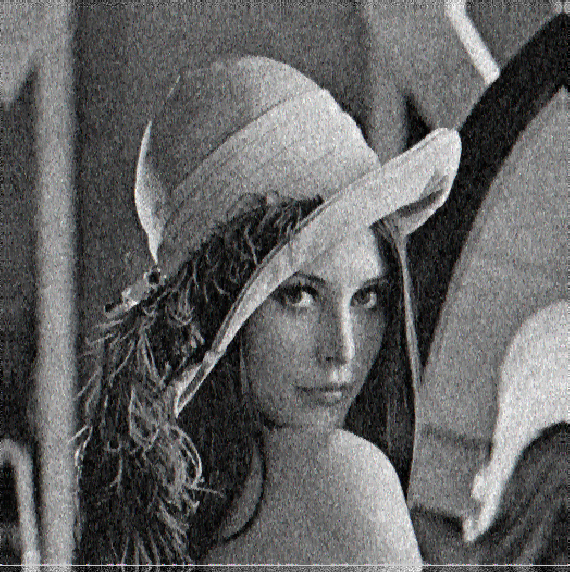
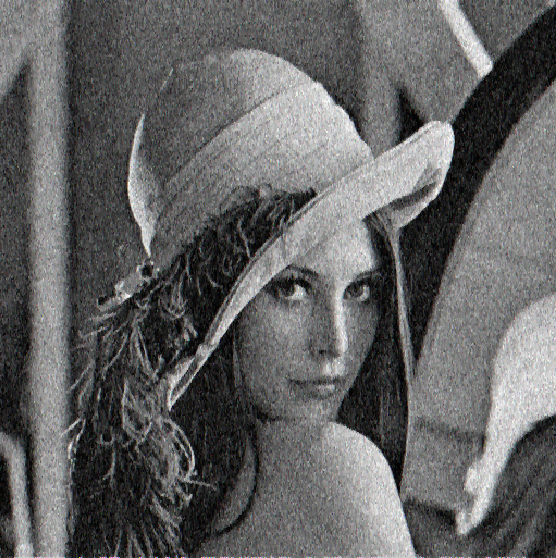
FIX: Basic Paralel Implementation

diff --git a/src/basic_paralel.cpp b/src/basic_paralel.cpp
@@ -20,13 +20,15 @@ struct p_info
 	int min;
 };
 
-static void* th_work(void *arguments)
+static void *th_work(void *arguments)
 {
-	struct p_info *part_info = (struct p_info *) arguments;
+	struct p_info *part_info = (struct p_info *)arguments;
 	cv::Mat &dst = *(part_info->dst);
 	int cols = dst.cols;
 	int offset = part_info->max / 2;
-
+#ifdef DEBUG
+	printf("Thread start:%d end:%d STARTED\n", part_info->start, part_info->end);
+#endif
 	for (int j = part_info->start; j < part_info->end; j++)
 	{
 		for (int i = offset; i < cols * dst.channels() - offset; i++)
@@ -34,6 +36,9 @@ static void* th_work(void *arguments)
 			dst.at<uchar>(j, i) = adaptiveProcess(dst, j, i, part_info->min, part_info->max);
 		}
 	}
+#ifdef DEBUG
+	printf("Thread start:%d end:%d ENDED\n", part_info->start, part_info->end);
+#endif
 	return NULL;
 }
 
@@ -70,7 +75,7 @@ int main(int argc, char **argv)
 	cv::copyMakeBorder(src, dst, offset, offset, offset, offset, cv::BORDER_REFLECT);
 
 	int div_size;
-	for (thread = 1; thread < thread_count; thread++)
+	for (thread = 0; thread < thread_count; thread++)
 	{
 #ifdef DEBUG
 		printf("Creating thread %ld.\n", thread);
@@ -83,19 +88,27 @@ int main(int argc, char **argv)
 		partitions[thread].max = max_size;
 		partitions[thread].min = min_size;
 
-		/* Create threads */
-		pthread_create(&thread_handles[thread], NULL,
-					   th_work, (void *) &partitions[thread]);
+		if (thread)
+		{
+			/* Create threads */
+			pthread_create(&thread_handles[thread], NULL,
+						   th_work, (void *)&partitions[thread]);
+		}
 	}
+	th_work((void *)&partitions[0]);
 
-	for (thread = 0; thread < thread_count; thread++)
+	for (thread = 1; thread < thread_count; thread++)
 		pthread_join(thread_handles[thread], NULL);
 
 	free(thread_handles);
 
+	dst = dst(cv::Range(offset, src.rows+offset), cv::Range(offset, src.cols+offset));
+	cv::imshow("origin", src);
+	cv::imshow("result", dst);
+	cv::imwrite("lena_filtered.png", dst);
+	cv::waitKey(0);
 	return 0;
 }
-
 
 uchar adaptiveProcess(const cv::Mat &im, int row, int col, int kernelSize, int maxSize)
 {

diff --git a/src/adaptive_median_filter_seq.cpp b/src/adaptive_median_filter_seq.cpp
@@ -47,6 +47,7 @@ Mat work(Mat src){
             dst.at<uchar>(j, i) = adaptiveProcess(dst, j, i, minSize, maxSize);
         }
     }
+    dst = dst(Range(maxSize/2, src.rows + maxSize/2), Range(maxSize/2, src.cols + maxSize/2));
     return dst;
 }
 
